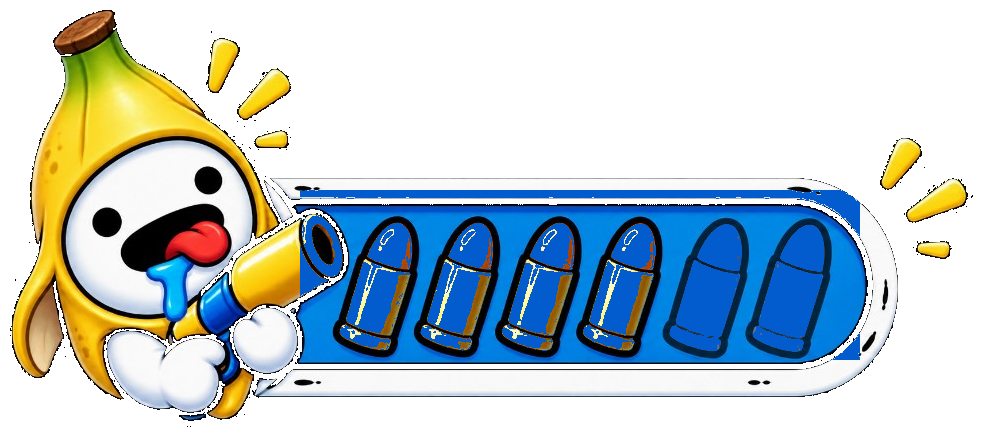
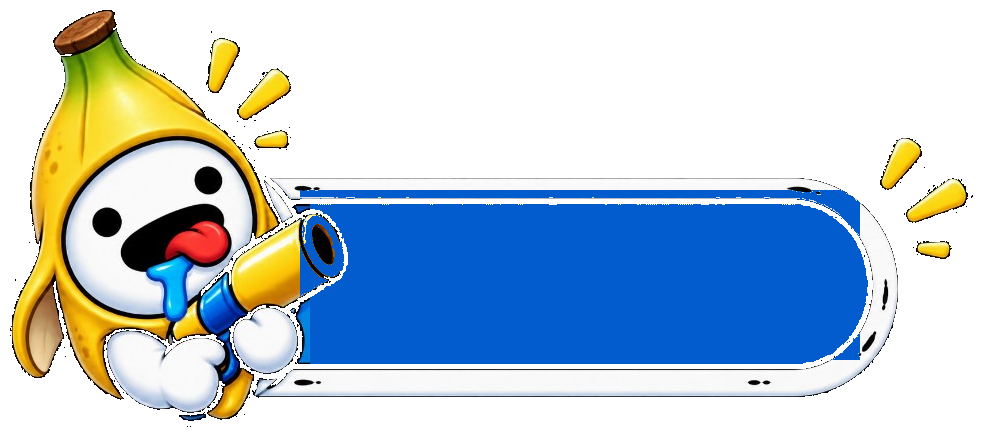
fix: make hunter shots land and run rounds in daylight

Changed region(s): [[0.3052, 0.4462, 0.885, 0.833]]

diff --git a/src/view.ts b/src/view.ts
@@ -180,8 +180,6 @@ export function createView(canvas: HTMLCanvasElement): GameView {
   const camTo = new THREE.Vector3();
   const camDir = new THREE.Vector3();
   const hunterAim = new THREE.Vector3();
-  const raycaster = new THREE.Raycaster();
-  const centerNdc = new THREE.Vector2(0, 0);
 
   const sky = createSky(scene, fpsCamera);
   const forest = createForest(scene);
@@ -197,6 +195,7 @@ export function createView(canvas: HTMLCanvasElement): GameView {
   let hurtUntil = 0;
   let lastState: GameState | null = null;
   let lastAnimAt = performance.now();
+  let lastThird = true;
 
   void preloadHouseSurfaces().catch(() => undefined);
   void preloadBoliCharacters()
@@ -352,6 +351,7 @@ export function createView(canvas: HTMLCanvasElement): GameView {
     const activeHunter =
       hunterIndex <= 0 ? state.hunter : (state.extraHunters[hunterIndex - 1] ?? state.hunter);
     const third = opts.cameraMode !== "firstPerson";
+    lastThird = third;
 
     const blobPoses: BlobShadowPose[] = [];
     for (const entity of state.entities) {
@@ -480,46 +480,56 @@ export function createView(canvas: HTMLCanvasElement): GameView {
     for (const mesh of extraMeshes) {
       tickBoliAnimation(mesh, animDt);
     }
-    blobs.sync(blobPoses, skyAmount(state.timeLeft));
+    blobs.sync(blobPoses, skyAmount(state.timeLeft, state.worldMinute));
     tickGrassLod(fpsCamera.position.x, fpsCamera.position.z);
     renderer.render(scene, fpsCamera);
     tickPerfOverlay(renderer);
   }
 
-  function pickAimedEntity(state: GameState, hunter: Hunter, _yaw: number, _pitch: number): Entity | null {
-    const targets: THREE.Object3D[] = [];
+  function pickAimedEntity(state: GameState, hunter: Hunter, yaw: number, pitch: number): Entity | null {
+    const crouch = Boolean(hunter.crouch);
+    placeCamera(
+      hunter.x,
+      hunter.y,
+      hunter.z,
+      yaw,
+      pitch,
+      hunter.walkTime,
+      hunter.state === "WANDER",
+      crouch,
+      lastThird,
+    );
+    fpsCamera.updateMatrixWorld(true);
+    fpsCamera.getWorldPosition(camFrom);
+    fpsCamera.getWorldDirection(camDir);
+    hunterAim.set(hunter.x, hunter.z + (crouch ? VIEW.crouchEyeHeight : VIEW.eyeHeight), hunter.y);
+    const camToEye = hunterAim.distanceTo(camFrom);
+    const near = lastThird ? Math.max(0.4, camToEye - 3) : 0.4;
+    const far = camToEye + ROUND.shotRange;
+    const hitR = RHYTHM.radius * 1.25;
+    const hitR2 = hitR * hitR;
+    let best: Entity | null = null;
+    let bestT = far;
     for (const entity of state.entities) {
-      const mesh = boliMeshes.get(entity.id);
-      if (!mesh || entity.downed) {
+      if (entity.downed) {
         continue;
       }
-      syncPerson(mesh, entity, false, 0, Boolean(entity.crouch));
-      mesh.updateMatrixWorld(true);
-      targets.push(mesh);
+      const dx = entity.x - camFrom.x;
+      const dy = entity.z + 8 - camFrom.y;
+      const dz = entity.y - camFrom.z;
+      const along = dx * camDir.x + dy * camDir.y + dz * camDir.z;
+      if (along < near || along > far) {
+        continue;
+      }
+      const ox = dx - camDir.x * along;
+      const oy = dy - camDir.y * along;
+      const oz = dz - camDir.z * along;
+      if (ox * ox + oy * oy + oz * oz <= hitR2 && along < bestT) {
+        bestT = along;
+        best = entity;
+      }
     }
-    fpsCamera.updateMatrixWorld();
-    hunterAim.set(hunter.x, hunter.z + (hunter.crouch ? VIEW.crouchEyeHeight : VIEW.eyeHeight), hunter.y);
-    raycaster.setFromCamera(centerNdc, fpsCamera);
-    raycaster.far = hunterAim.distanceTo(fpsCamera.position) + ROUND.shotRange;
-    const hits = raycaster.intersectObjects(targets, true);
-    const first = hits[0];
-    if (!first) {
-      return null;
-    }
-    let node: THREE.Object3D | null = first.object;
-    while (node && node.userData.entityId === undefined) {
-      node = node.parent;
-    }
-    const id = node?.userData.entityId as string | undefined;
-    if (!id) {
-      return null;
-    }
-    const entity = state.entities.find((item) => item.id === id) ?? null;
-    if (!entity) {
-      return null;
-    }
-    const reach = Math.hypot(entity.x - hunter.x, entity.y - hunter.y, entity.z + 8 - hunterAim.y);
-    return reach <= ROUND.shotRange ? entity : null;
+    return best;
   }
 
   resize();
@@ -917,10 +927,13 @@ function createShotFx(
     blending: THREE.AdditiveBlending,
     depthWrite: false,
   });
+  const muzzle = new THREE.Object3D();
+  muzzle.position.set(0, 0.28, -9.05);
+  viewmodel.add(muzzle);
+
   const fpFlash = makeMuzzleStar();
-  fpFlash.position.set(0, 0.28, -9.1);
   fpFlash.visible = false;
-  viewmodel.add(fpFlash);
+  camera.add(fpFlash);
 
   const fpLight = new THREE.PointLight(0xffc56a, 0, 18, 2);
   fpLight.position.set(0.08, -0.02, -0.7);
@@ -930,11 +943,12 @@ function createShotFx(
   scene.add(worldLight);
 
   const worldFlash = makeMuzzleStar();
-  worldFlash.scale.setScalar(0.12);
+  worldFlash.scale.setScalar(0.55);
   worldFlash.visible = false;
   scene.add(worldFlash);
 
-  const beam = new THREE.Mesh(new THREE.CylinderGeometry(0.07, 0.18, 1, 6, 1, true), beamMat);
+  const beam = new THREE.Mesh(new THREE.CylinderGeometry(0.42, 0.78, 1, 6, 1, true), beamMat);
+  beam.renderOrder = 8;
   beam.visible = false;
   scene.add(beam);
 
@@ -961,20 +975,22 @@ function createShotFx(
   let beamLife = 0;
   let fxLast = performance.now();
 
-  function originFromCamera(): THREE.Vector3 {
+  function originFromCamera(firstPerson: boolean): THREE.Vector3 {
     const origin = new THREE.Vector3();
     camera.getWorldPosition(origin);
     const dir = new THREE.Vector3();
     camera.getWorldDirection(dir);
-    origin.addScaledVector(dir, 1.15);
-    origin.y -= 0.12;
+    origin.addScaledVector(dir, firstPerson ? 1.15 : Math.max(8, VIEW.tpDistance - 8));
+    if (firstPerson) {
+      origin.y -= 0.12;
+    }
     return origin;
   }
 
   function play(opts: { firstPerson: boolean; hitX: number; hitY: number; hitZ: number; hit: boolean }): void {
     localUntil = performance.now() + 280;
     const hit = new THREE.Vector3(opts.hitX, opts.hitZ, opts.hitY);
-    burst(originFromCamera(), hit, opts.firstPerson, opts.hit);
+    burst(originFromCamera(opts.firstPerson), hit, opts.firstPerson, opts.hit);
   }
 
   function consume(state: GameState): void {
@@ -991,9 +1007,16 @@ function createShotFx(
     burst(origin, hit, false, event.hit);
   }
 
+  const _muzzleWorld = new THREE.Vector3();
+  const fpFlashScale = 0.042;
+
   function burst(origin: THREE.Vector3, hit: THREE.Vector3, firstPerson: boolean, didHit: boolean): void {
     if (firstPerson) {
       fpFlashLife = 0.09;
+      muzzle.updateWorldMatrix(true, false);
+      camera.worldToLocal(muzzle.getWorldPosition(_muzzleWorld));
+      fpFlash.position.copy(_muzzleWorld);
+      fpFlash.scale.setScalar(fpFlashScale);
       fpFlash.visible = true;
       fpFlash.rotation.z = Math.random() * Math.PI;
       fpLight.intensity = 7.5;
@@ -1038,7 +1061,7 @@ function createShotFx(
       const mat = sprite.material as THREE.SpriteMaterial;
       mat.color.setHex(Math.random() > 0.35 ? 0xffe08a : 0xff9a3a);
       mat.opacity = 1;
-      const size = didHit ? 1.1 + Math.random() * 1.6 : 0.7 + Math.random();
+      const size = didHit ? 2.2 + Math.random() * 2.4 : 1.3 + Math.random() * 1.4;
       sprite.scale.setScalar(size);
       sparks.push({
         sprite,
@@ -1060,7 +1083,7 @@ function createShotFx(
       fpFlashLife -= dt;
       const k = Math.max(0, fpFlashLife / 0.09);
       fpFlash.visible = k > 0;
-      fpFlash.scale.setScalar(0.8 + (1 - k) * 1.4);
+      fpFlash.scale.setScalar(fpFlashScale * (0.85 + (1 - k) * 1.35));
       fpFlash.traverse((node) => {
         const mesh = node as THREE.Mesh;
         const mat = mesh.material as THREE.MeshBasicMaterial | undefined;
@@ -1078,7 +1101,7 @@ function createShotFx(
       worldFlashLife -= dt;
       const k = Math.max(0, worldFlashLife / 0.12);
       worldFlash.visible = k > 0;
-      worldFlash.scale.setScalar(0.08 + (1 - k) * 0.2);
+      worldFlash.scale.setScalar(0.4 + (1 - k) * 0.55);
       worldFlash.traverse((node) => {
         const mesh = node as THREE.Mesh;
         const mat = mesh.material as THREE.MeshBasicMaterial | undefined;
@@ -1359,10 +1382,7 @@ function slotsFromRatio(ratio: number, slots: number): number {
 }
 
 function ammoSlots(ammo: number): number {
-  if (ammo <= 0) {
-    return 0;
-  }
-  return Math.min(AMMO_SLOTS, Math.ceil(ammo / (ROUND.maxShells / AMMO_SLOTS)));
+  return Math.max(0, Math.min(AMMO_SLOTS, ammo));
 }
 
 function presentBanner(text: string): string {

diff --git a/index.html b/index.html
@@ -154,10 +154,10 @@
       }
       .hud-shots {
         position: absolute;
-        left: 34.2%;
-        top: 49.5%;
-        width: 49%;
-        height: 29%;
+        left: 33.5%;
+        top: 48%;
+        width: 53%;
+        height: 33%;
         display: flex;
         align-items: center;
         justify-content: space-between;
@@ -170,11 +170,11 @@
         fill: #f0c63a;
       }
       .hud-shot .tip {
-        fill: #f08a28;
+        fill: #3ec6ff;
       }
       .hud-shot.is-off .fill,
       .hud-shot.is-off .tip {
-        fill: #3f5168;
+        fill: #1a4a8a;
       }
       .hud-shot.is-off rect {
         opacity: 0.12;
@@ -1858,8 +1858,8 @@
           <span class="hud-shot is-on"><svg viewBox="0 0 20 34"><path class="fill" d="M6 12h8v16.5c0 2.4-1.8 4-4 4s-4-1.6-4-4z" stroke="#111" stroke-width="2"/><path class="tip" d="M6 13 L10 3.5 L14 13z" stroke="#111" stroke-width="2" stroke-linejoin="round"/><rect x="7.4" y="15" width="3.2" height="9" rx="1.2" fill="#fff" opacity=".75"/></svg></span>
           <span class="hud-shot is-on"><svg viewBox="0 0 20 34"><path class="fill" d="M6 12h8v16.5c0 2.4-1.8 4-4 4s-4-1.6-4-4z" stroke="#111" stroke-width="2"/><path class="tip" d="M6 13 L10 3.5 L14 13z" stroke="#111" stroke-width="2" stroke-linejoin="round"/><rect x="7.4" y="15" width="3.2" height="9" rx="1.2" fill="#fff" opacity=".75"/></svg></span>
           <span class="hud-shot is-on"><svg viewBox="0 0 20 34"><path class="fill" d="M6 12h8v16.5c0 2.4-1.8 4-4 4s-4-1.6-4-4z" stroke="#111" stroke-width="2"/><path class="tip" d="M6 13 L10 3.5 L14 13z" stroke="#111" stroke-width="2" stroke-linejoin="round"/><rect x="7.4" y="15" width="3.2" height="9" rx="1.2" fill="#fff" opacity=".75"/></svg></span>
-          <span class="hud-shot is-off"><svg viewBox="0 0 20 34"><path class="fill" d="M6 12h8v16.5c0 2.4-1.8 4-4 4s-4-1.6-4-4z" stroke="#111" stroke-width="2"/><path class="tip" d="M6 13 L10 3.5 L14 13z" stroke="#111" stroke-width="2" stroke-linejoin="round"/><rect x="7.4" y="15" width="3.2" height="9" rx="1.2" fill="#fff" opacity=".75"/></svg></span>
-          <span class="hud-shot is-off"><svg viewBox="0 0 20 34"><path class="fill" d="M6 12h8v16.5c0 2.4-1.8 4-4 4s-4-1.6-4-4z" stroke="#111" stroke-width="2"/><path class="tip" d="M6 13 L10 3.5 L14 13z" stroke="#111" stroke-width="2" stroke-linejoin="round"/><rect x="7.4" y="15" width="3.2" height="9" rx="1.2" fill="#fff" opacity=".75"/></svg></span>
+          <span class="hud-shot is-on"><svg viewBox="0 0 20 34"><path class="fill" d="M6 12h8v16.5c0 2.4-1.8 4-4 4s-4-1.6-4-4z" stroke="#111" stroke-width="2"/><path class="tip" d="M6 13 L10 3.5 L14 13z" stroke="#111" stroke-width="2" stroke-linejoin="round"/><rect x="7.4" y="15" width="3.2" height="9" rx="1.2" fill="#fff" opacity=".75"/></svg></span>
+          <span class="hud-shot is-on"><svg viewBox="0 0 20 34"><path class="fill" d="M6 12h8v16.5c0 2.4-1.8 4-4 4s-4-1.6-4-4z" stroke="#111" stroke-width="2"/><path class="tip" d="M6 13 L10 3.5 L14 13z" stroke="#111" stroke-width="2" stroke-linejoin="round"/><rect x="7.4" y="15" width="3.2" height="9" rx="1.2" fill="#fff" opacity=".75"/></svg></span>
         </div>
         <div class="hud-ammo-meta">
           <span id="ammoCount">8</span>

diff --git a/src/sim/worldClock.ts b/src/sim/worldClock.ts
@@ -1,9 +1,12 @@
 import { ROUND } from "./types";
 
-/** 00:00–06:00 of world time maps onto one round. */
+/** Round daylight: 12:00–18:00 maps onto one round. */
 export const DAY_MINUTES = 24 * 60;
 export const DAWN_MINUTES = 6 * 60;
 export const DUSK_MINUTES = 18 * 60;
+export const ROUND_START_MINUTE = 12 * 60;
+export const ROUND_SPAN_MINUTES = 6 * 60;
+export const ROUND_END_MINUTE = ROUND_START_MINUTE + ROUND_SPAN_MINUTES;
 
 export function wrapMinute(minute: number): number {
   return ((minute % DAY_MINUTES) + DAY_MINUTES) % DAY_MINUTES;
@@ -15,19 +18,19 @@ export function worldHour(minute: number): number {
 
 export function worldMinuteFromTimeLeft(timeLeft: number): number {
   const elapsed = 1 - Math.max(0, Math.min(1, timeLeft / ROUND.duration));
-  return elapsed * DAWN_MINUTES;
+  return ROUND_START_MINUTE + elapsed * ROUND_SPAN_MINUTES;
 }
 
 export function timeLeftFromWorldMinute(minute: number): number {
   const m = wrapMinute(minute);
-  if (m <= DAWN_MINUTES) {
-    return ROUND.duration * (1 - m / DAWN_MINUTES);
+  if (m <= ROUND_START_MINUTE) {
+    return ROUND.duration;
   }
-  if (m < DUSK_MINUTES) {
+  if (m >= ROUND_END_MINUTE) {
     return 0;
   }
-  return ROUND.duration * ((m - DUSK_MINUTES) / DAWN_MINUTES);
+  return ROUND.duration * (1 - (m - ROUND_START_MINUTE) / ROUND_SPAN_MINUTES);
 }
 
 /** Round seconds → world minutes (6h of clock in ROUND.duration). */
-export const WORLD_MINUTES_PER_SECOND = DAWN_MINUTES / ROUND.duration;
+export const WORLD_MINUTES_PER_SECOND = ROUND_SPAN_MINUTES / ROUND.duration;

diff --git a/src/view/sky.ts b/src/view/sky.ts
@@ -2,7 +2,7 @@ import * as THREE from "three";
 import { worldHour, worldMinuteFromTimeLeft } from "../sim/worldClock";
 import { getQuality } from "../quality";
 
-/** Night holds for most of the round; dawn only arrives as the clock runs down. */
+/** Round lighting follows world hour. Default round is noon → late afternoon. */
 const DAWN_START = 0.02;
 
 /**
@@ -189,8 +189,7 @@ export type SkyRig = {
 };
 
 /**
- * Atmosphere only. Driven by `timeLeft`, never by round phase —
- * a hunter win at 8:00 keeps the night sky.
+ * Atmosphere only. Driven by world hour, never by round phase.
  */
 export function createSky(scene: THREE.Scene, camera: THREE.Camera): SkyRig {
   const fog = new THREE.Fog(
@@ -329,9 +328,9 @@ export function createSky(scene: THREE.Scene, camera: THREE.Camera): SkyRig {
   };
 }
 
-/** 0 = night, 1 = day. Driven only by world hour. */
-export function skyAmount(timeLeft: number): number {
-  return cycleAmount(worldHour(worldMinuteFromTimeLeft(timeLeft)));
+/** 0 = night, 1 = day. Driven by world hour (falls back to the round clock). */
+export function skyAmount(timeLeft: number, worldMinute?: number): number {
+  return cycleAmount(worldHour(worldMinute ?? worldMinuteFromTimeLeft(timeLeft)));
 }
 
 /** Same 0–1 day blend as sky lighting, from a world hour (0–24). */

diff --git a/src/sim/game.ts b/src/sim/game.ts
@@ -4,7 +4,7 @@ import { createHunter, tickHunterAi, tickHunterControlled, type HunterInput } fr
 import { tickInfiltrator, type InfiltratorInput } from "./infiltrator";
 import type { RoundReport } from "../net/championship";
 import { RHYTHM, ROUND, VIEW, type Entity, type GameState, type Hunter } from "./types";
-import { worldMinuteFromTimeLeft, wrapMinute, WORLD_MINUTES_PER_SECOND } from "./worldClock";
+import { ROUND_START_MINUTE, worldMinuteFromTimeLeft, wrapMinute, WORLD_MINUTES_PER_SECOND } from "./worldClock";
 import { createAmmoCrates, createObjectives, createWorld, randomWalkablePoint, sampleHeight } from "./world";
 
 export type CreateGameOpts = {
@@ -91,7 +91,7 @@ export function createGame(opts: CreateGameOpts | (() => number) = {}): GameStat
     extraHunters: [],
     objectives: createObjectives(),
     timeLeft: ROUND.duration,
-    worldMinute: 0,
+    worldMinute: ROUND_START_MINUTE,
     phase: "PLAYING",
     revealTtl: 0,
     shotKick: 0,

diff --git a/src/debug/timeConsole.ts b/src/debug/timeConsole.ts
@@ -1,7 +1,6 @@
 import { setDebugClockHook } from "../sim/debugClock";
 import { type GameState } from "../sim/types";
 import {
-  DAWN_MINUTES,
   timeLeftFromWorldMinute,
   worldMinuteFromTimeLeft,
   wrapMinute,
@@ -307,7 +306,7 @@ function applyWorldMinute(state: GameState, next: number): string {
   const minute = wrapMinute(next);
   state.worldMinute = minute;
   state.timeLeft = timeLeftFromWorldMinute(minute);
-  if (state.timeLeft <= 0 || minute >= DAWN_MINUTES) {
+  if (state.timeLeft <= 0) {
     clock.holdWin = true;
     clock.paused = true;
   } else {
